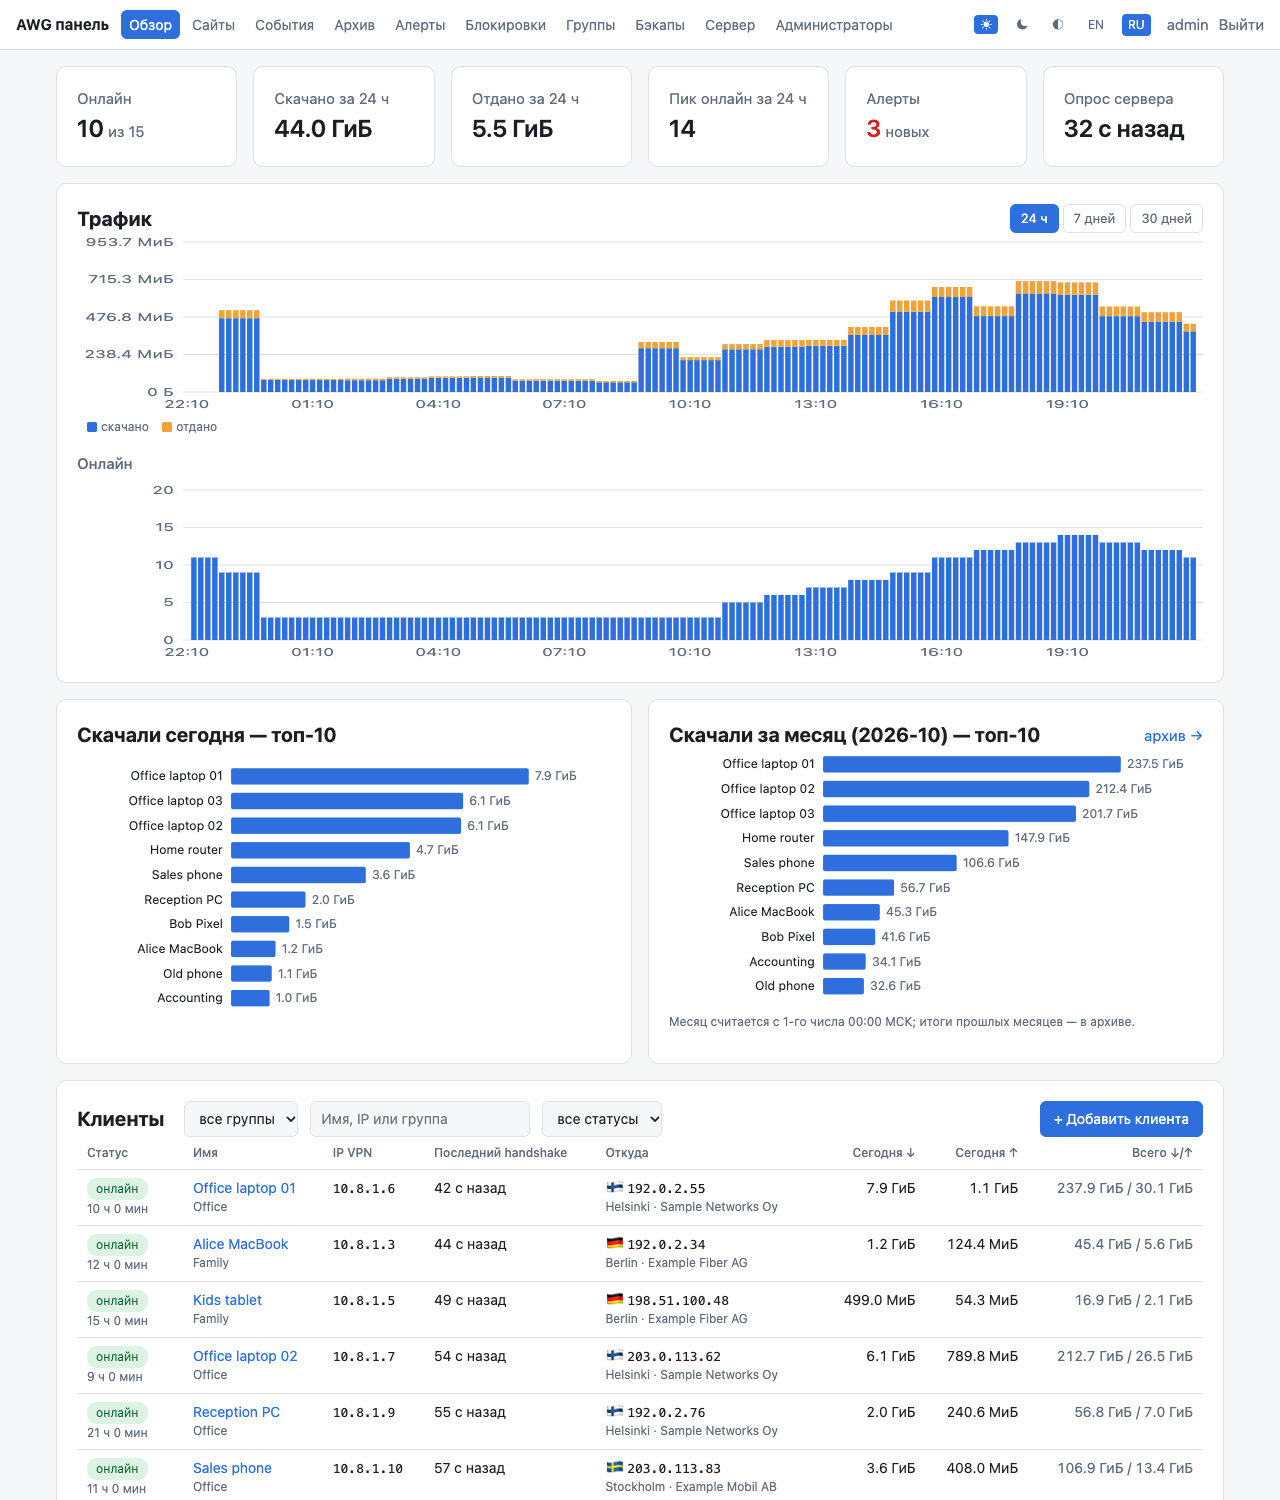
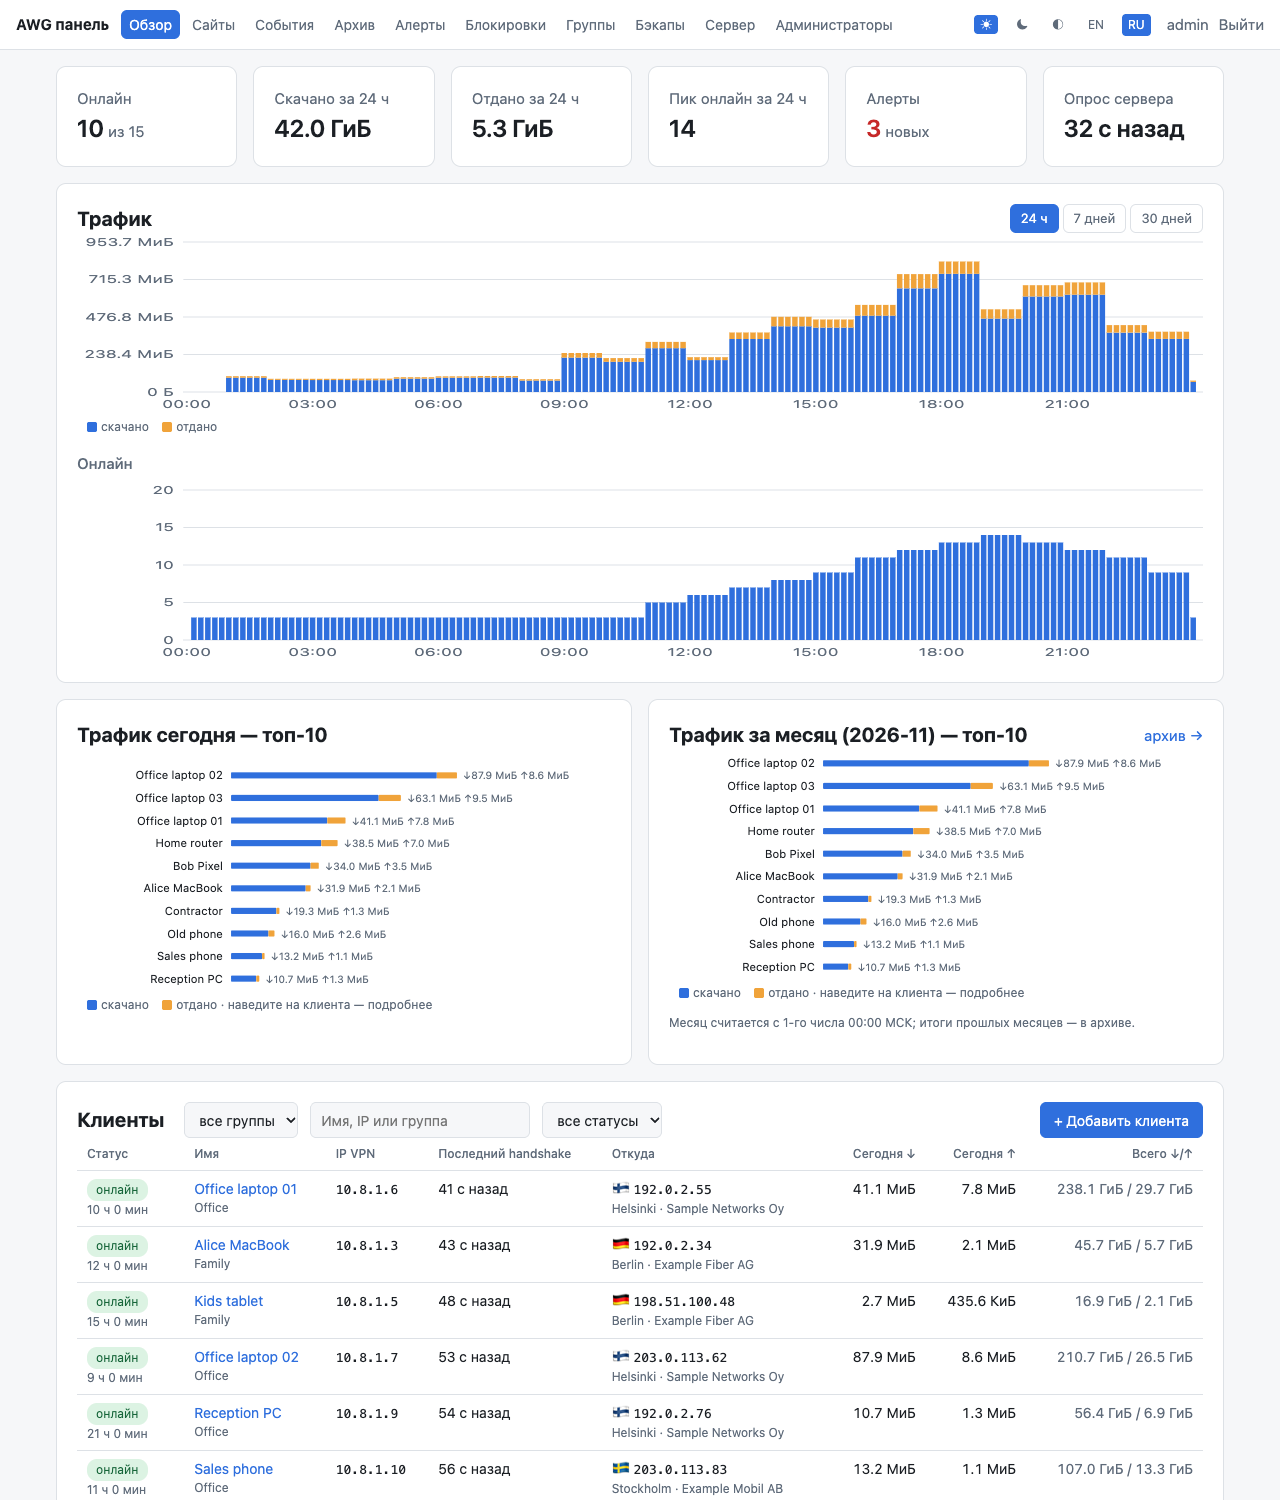
Release 1.9.1: top 10 by traffic with download/upload bars and hover card
- charts.traffic_bars: thin stacked bars (downloaded blue, uploaded orange),
  small labels, per-row data for a hover card
- overview: top 10 today / this month by total traffic with hourly / daily
  series per client; archive top 10 uses the same bars
- app.js: hover card with large download/upload bars and the client's chart,
  built with DOM APIs (CSP-safe, names as text)
- tests for the chart data and escaping

diff --git a/panel/app/static/app.js b/panel/app/static/app.js
@@ -39,3 +39,74 @@
 
 // Списки-фильтры (группа и т. п.) применяются сразу при выборе — без встроенных обработчиков из-за CSP.
 document.querySelectorAll("select[data-autosubmit]").forEach((s) => s.addEventListener("change", () => s.form.submit()));
+
+// Топ по трафику: при наведении на клиента — карточка крупно (скачано/отдано и его график за период).
+(function () {
+  const rows = document.querySelectorAll(".tbars [data-tip]");
+  if (!rows.length) return;
+  const NS = "http://www.w3.org/2000/svg";
+  const tip = document.createElement("div");
+  tip.className = "tip";
+  tip.hidden = true;
+  document.body.appendChild(tip);
+  const el = (tag, cls, text) => { const e = document.createElement(tag); if (cls) e.className = cls; if (text !== undefined) e.textContent = text; return e; };
+  const svgEl = (tag, attrs) => { const e = document.createElementNS(NS, tag); for (const k in attrs) e.setAttribute(k, attrs[k]); return e; };
+
+  function chart(series) {
+    const W = 300, H = 110, B = 16, n = series.length, bw = W / n;
+    const top = Math.max(1, ...series.map((s) => s[1] + s[2]));
+    const svg = svgEl("svg", { viewBox: `0 0 ${W} ${H}`, class: "tip-chart" });
+    series.forEach((s, i) => {
+      const hd = (H - B) * s[1] / top, hu = (H - B) * s[2] / top, x = i * bw + 0.5, w = Math.max(bw - 1, 0.5);
+      svg.appendChild(svgEl("rect", { class: "s1", x, y: H - B - hd, width: w, height: hd }));
+      svg.appendChild(svgEl("rect", { class: "s2", x, y: H - B - hd - hu, width: w, height: hu }));
+      if (i === 0 || i === n - 1 || i % Math.ceil(n / 6) === 0) {
+        const t = svgEl("text", { class: "axis", x: x + w / 2, y: H - 3, "text-anchor": "middle" });
+        t.textContent = s[0];
+        svg.appendChild(t);
+      }
+    });
+    return svg;
+  }
+
+  function show(a, ev) {
+    const d = JSON.parse(a.getAttribute("data-tip"));
+    const l = JSON.parse(a.closest("svg").getAttribute("data-labels") || "{}");
+    tip.replaceChildren();
+    tip.appendChild(el("div", "tip-name", d.name));
+    const max = Math.max(1, d.d, d.u);
+    for (const [cls, label, val, raw] of [["s1", l.down, d.down, d.d], ["s2", l.up, d.up, d.u]]) {
+      const row = el("div", "tip-row");
+      row.appendChild(el("span", "tip-label", label));
+      const bar = el("span", "tip-bar");
+      const fill = el("span", "tip-fill " + cls);
+      fill.style.width = Math.max(1, 100 * raw / max) + "%";
+      bar.appendChild(fill);
+      row.appendChild(bar);
+      row.appendChild(el("b", "", val));
+      tip.appendChild(row);
+    }
+    tip.appendChild(el("div", "tip-total", `${l.total}: ${d.total}`));
+    if (d.series && d.series.length > 1) {
+      tip.appendChild(el("div", "tip-period", l.period));
+      tip.appendChild(chart(d.series));
+    }
+    tip.hidden = false;
+    move(ev);
+  }
+
+  function move(ev) {
+    const pad = 16, r = tip.getBoundingClientRect();
+    let x = ev.clientX + pad, y = ev.clientY + pad;
+    if (x + r.width > window.innerWidth - 8) x = ev.clientX - r.width - pad;
+    if (y + r.height > window.innerHeight - 8) y = ev.clientY - r.height - pad;
+    tip.style.left = Math.max(8, x) + "px";
+    tip.style.top = Math.max(8, y) + "px";
+  }
+
+  rows.forEach((a) => {
+    a.addEventListener("mouseenter", (ev) => show(a, ev));
+    a.addEventListener("mousemove", move);
+    a.addEventListener("mouseleave", () => { tip.hidden = true; });
+  });
+})();

diff --git a/panel/app/static/app.css b/panel/app/static/app.css
@@ -177,3 +177,24 @@ footer { display: flex; flex-wrap: wrap; justify-content: center; align-items: c
 footer a { color: var(--muted); }
 footer a:hover { color: var(--text); }
 footer .gh { display: inline-flex; align-items: center; gap: 5px; }
+.tbars .hit { fill: transparent; }
+.tbars a:hover .hit { fill: var(--bg); }
+.tbars .lbl { fill: var(--text); font-size: 11px; }
+.tbars .val { font-size: 10px; }
+.tbars .s2 { fill: var(--accent2); }
+.tip { position: fixed; z-index: 50; width: 340px; background: var(--surface); color: var(--text); border: 1px solid var(--border);
+       border-radius: 10px; box-shadow: 0 8px 28px rgba(0, 0, 0, .28); padding: 14px 16px; pointer-events: none; }
+.tip-name { font-size: 17px; font-weight: 600; margin-bottom: 10px; }
+.tip-row { display: grid; grid-template-columns: 70px 1fr auto; gap: 10px; align-items: center; margin: 6px 0; font-size: 14px; }
+.tip-label { color: var(--muted); font-size: 13px; }
+.tip-bar { height: 12px; background: var(--bg); border-radius: 6px; overflow: hidden; }
+.tip-fill { display: block; height: 100%; border-radius: 6px; }
+.tip-fill.s1 { background: var(--accent); }
+.tip-fill.s2 { background: var(--accent2); }
+.tip-total { font-size: 13px; color: var(--muted); margin-top: 8px; }
+.tip-period { font-size: 12px; color: var(--muted); margin: 10px 0 4px; }
+.tip-chart { width: 100%; height: 110px; display: block; }
+.tip-chart .s1 { fill: var(--accent); }
+.tip-chart .s2 { fill: var(--accent2); }
+.tip-chart .axis { fill: var(--muted); font-size: 10px; }
+.tbars a:hover .s1 { fill: var(--accent); }

diff --git a/panel/app/templates/index.html b/panel/app/templates/index.html
@@ -21,8 +21,8 @@
 </section>
 
 <section class="grid2">
-  <div class="card"><h1>{{ _("Top 10 downloads today") }}</h1>{{ top_today|safe }}</div>
-  <div class="card"><div class="head"><h1>{{ _("Top 10 downloads this month ({month})", month=month) }}</h1><a href="/archive">{{ _("archive") }} →</a></div>{{ top_month|safe }}
+  <div class="card"><h1>{{ _("Traffic today — top 10") }}</h1>{{ top_today|safe }}</div>
+  <div class="card"><div class="head"><h1>{{ _("Traffic this month ({month}) — top 10", month=month) }}</h1><a href="/archive">{{ _("archive") }} →</a></div>{{ top_month|safe }}
     <p class="muted small">{{ _("A month starts on the 1st at 00:00 Moscow time; totals of past months are in the archive.") }}</p></div>
 </section>
 

diff --git a/panel/app/templates/archive.html b/panel/app/templates/archive.html
@@ -16,7 +16,7 @@
     {% for name, v in group_totals %}<tr><td>{{ name }}</td><td class="num">{{ v[2] }}</td><td class="num">{{ v[0]|size }}</td><td class="num">{{ v[1]|size }}</td></tr>{% endfor %}
   </table>
   {% endif %}
-  <h2>{{ _("Top 10 downloads") }}</h2>
+  <h2>{{ _("Top 10 by traffic") }}</h2>
   {{ chart|safe }}
   <div class="scroll">
   <table class="tbl">

diff --git a/panel/app/main.py b/panel/app/main.py
@@ -415,12 +415,31 @@ def index(request: Request, days: int = 1, group: str = ""):
     month = monthly.current_month(now, fmt.TZ)
     m_start, _ = monthly.month_bounds(month, fmt.TZ)
 
-    def top10(start: int) -> str:
-        rows = conn.execute("SELECT p.id, p.name, SUM(t.tx) d FROM traffic_hour t JOIN peers p ON p.id = t.peer_id "
-                            f"WHERE t.ts >= ?{pw} GROUP BY p.id ORDER BY d DESC LIMIT 10", (start, *pa)).fetchall()
-        return charts.hbars([(r["name"], r["d"], f"/peer/{r['id']}") for r in rows if r["d"]])
+    def top10(start: int, daily: bool) -> str:
+        """Топ-10 по трафику (скачано + отдано) и график каждого: по часам за сегодня или по дням за месяц."""
+        rows = conn.execute("SELECT p.id, p.name, SUM(t.tx) d, SUM(t.rx) u FROM traffic_hour t JOIN peers p ON p.id = t.peer_id "
+                            f"WHERE t.ts >= ?{pw} GROUP BY p.id ORDER BY SUM(t.tx + t.rx) DESC LIMIT 10", (start, *pa)).fetchall()
+        rows = [r for r in rows if r["d"] or r["u"]]
+        per: dict[int, dict[int, list[int]]] = {r["id"]: {} for r in rows}
+        sw, sa = db.peer_filter(set(per), "peer_id")
+        for x in conn.execute(f"SELECT peer_id, ts, tx, rx FROM traffic_hour WHERE ts >= ?{sw}", (start, *sa)):
+            key = fmt.day_start(x["ts"]) if daily else x["ts"] - x["ts"] % 3600
+            a = per[x["peer_id"]].setdefault(key, [0, 0])
+            a[0] += x["tx"]
+            a[1] += x["rx"]
+        step = 86400 if daily else 3600
+        keys = []
+        k = start
+        while k <= now:
+            keys.append(fmt.day_start(k) if daily else k)
+            k += step
+        label = "%d" if daily else "%H"
+        return charts.traffic_bars(
+            [{"name": r["name"], "down": r["d"] or 0, "up": r["u"] or 0, "href": f"/peer/{r['id']}",
+              "series": [(fmt.dt(k, label), *per[r["id"]].get(k, (0, 0))) for k in keys]} for r in rows],
+            t("by day, this month") if daily else t("by hour, today"))
     return render(request, "index.html", clients=clients, online=online, rx24=totals[0], tx24=totals[1],
-                  top_today=top10(fmt.day_start(now)), top_month=top10(m_start), month=month,
+                  top_today=top10(fmt.day_start(now), False), top_month=top10(m_start, True), month=month,
                   events=events, poll=poller.status if poller else None, now=now, days=days, peak=peak, alerts=alerts,
                   top_clients=top_clients, group=group, group_list=group_choices(request),
                   traffic_chart=charts.bars(charts.traffic_series(conn, since, now, bucket, vp), fmt.TZ, label),
@@ -1295,7 +1314,8 @@ def archive_page(request: Request, month: str = "", group: str = ""):
     month = month if month in months else (months[0] if months else "")
     pw, pa = db.peer_filter(visible_peers(request, group))
     rows = conn.execute(f"SELECT * FROM monthly_archive WHERE month = ?{pw} ORDER BY tx DESC", (month, *pa)).fetchall()
-    chart = charts.hbars([(r["name"] or r["ip"], r["tx"], f"/peer/{r['peer_id']}") for r in rows[:10] if r["tx"]])
+    chart = charts.traffic_bars([{"name": r["name"] or r["ip"], "down": r["tx"], "up": r["rx"], "href": f"/peer/{r['peer_id']}"}
+                                 for r in sorted(rows, key=lambda r: -(r["tx"] + r["rx"]))[:10] if r["tx"] or r["rx"]])
     gname = {g["id"]: g["name"] for g in group_choices(request)}
     member = {r[0]: r[1] for r in conn.execute("SELECT id, group_id FROM peers")}
     by_group: dict[str, list[int]] = {}

diff --git a/panel/app/charts.py b/panel/app/charts.py
@@ -2,6 +2,7 @@
 from __future__ import annotations
 
 import datetime
+import json
 from html import escape
 from zoneinfo import ZoneInfo
 
@@ -126,6 +127,37 @@ def activity_cells(conn, peers, since: int, tz: ZoneInfo) -> dict[tuple[int, int
 
 
 RANGES = {1: (600, "%H:%M"), 7: (6 * 3600, "%d.%m %H"), 30: (86400, "%d.%m")}
+
+
+def traffic_bars(rows: list[dict], period: str = "") -> str:
+    """Топ по трафику: тонкая полоска скачано (синяя) + отдано (оранжевая), мелкая подпись.
+    rows = {name, down, up, href, series: [(подпись, скачано, отдано), …] | None}. Данные для всплывающей карточки
+    (app.js) — в data-tip каждой строки: клиент крупно и его график за период."""
+    if not rows:
+        return f'<p class="muted small">{t("No data.")}</p>'
+    top = max(r["down"] + r["up"] for r in rows) or 1
+    rh, w, left, right = 22, 520, 150, 150
+    lbl = {"down": t("downloaded"), "up": t("uploaded"), "total": t("total"), "period": period}
+    out = [f'<svg class="hbars tbars" viewBox="0 0 {w} {len(rows) * rh + 4}" role="img" data-labels="{escape(json.dumps(lbl, ensure_ascii=False))}">']
+    for i, r in enumerate(rows):
+        y = i * rh + 2
+        span = w - left - right
+        dw = max(span * r["down"] / top, 0.5 if r["down"] else 0)
+        uw = max(span * r["up"] / top, 0.5 if r["up"] else 0)
+        name = r["name"] if len(r["name"]) <= 22 else r["name"][:21] + "…"
+        tip = {"name": r["name"], "down": size(int(r["down"])), "up": size(int(r["up"])), "total": size(int(r["down"] + r["up"])),
+               "d": int(r["down"]), "u": int(r["up"]),
+               "series": [[lab, int(a), int(b)] for lab, a, b in (r.get("series") or [])]}
+        out.append(f'<a href="{escape(r["href"])}" class="trow" data-tip="{escape(json.dumps(tip, ensure_ascii=False))}">'
+                   f'<rect class="hit" x="0" y="{y}" width="{w}" height="{rh}"/>'
+                   f'<text class="axis lbl" x="{left - 8}" y="{y + 15}" text-anchor="end">{escape(name)}</text>'
+                   f'<rect class="s1" x="{left}" y="{y + 8}" width="{dw:.1f}" height="6" rx="1"/>'
+                   f'<rect class="s2" x="{left + dw:.1f}" y="{y + 8}" width="{uw:.1f}" height="6" rx="1"/>'
+                   f'<text class="axis val" x="{left + dw + uw + 6:.1f}" y="{y + 15}">↓{size(int(r["down"]))} ↑{size(int(r["up"]))}</text></a>')
+    out.append("</svg>")
+    out.append(f'<div class="legend"><span class="sw s1"></span>{t("downloaded")} <span class="sw s2"></span>{t("uploaded")}'
+               f' <span class="muted">· {t("hover over a client for details")}</span></div>')
+    return "".join(out)
 
 
 def hbars(rows: list[tuple[str, float, str]], unit_bytes: bool = True) -> str:

diff --git a/panel/tests/test_charts.py b/panel/tests/test_charts.py
@@ -1,0 +1,22 @@
+"""Топ по трафику: скачано + отдано, данные для всплывающей карточки, экранирование имён."""
+import html
+import json
+import re
+
+from app import charts
+
+
+def test_traffic_bars_stack_and_tip_data():
+    svg = charts.traffic_bars([
+        {"name": 'Анна "<b>"', "down": 10 << 30, "up": 1 << 30, "href": "/peer/1",
+         "series": [("09", 5 << 30, 0), ("10", 5 << 30, 1 << 30)]},
+        {"name": "Борис", "down": 0, "up": 2 << 20, "href": "/peer/2", "series": None},
+    ], "by hour, today")
+    assert svg.count('class="s1"') == 2 and svg.count('class="s2"') == 2
+    assert "<b>" not in svg.split("data-tip")[0] + svg.split("</svg>")[1]          # имя не попадает в разметку
+    tips = [json.loads(html.unescape(m)) for m in re.findall(r'data-tip="([^"]*)"', svg)]
+    assert tips[0]["name"] == 'Анна "<b>"' and tips[0]["d"] == 10 << 30 and tips[0]["u"] == 1 << 30
+    assert tips[0]["series"] == [["09", 5 << 30, 0], ["10", 5 << 30, 1 << 30]] and tips[1]["series"] == []
+    labels = json.loads(html.unescape(re.search(r'data-labels="([^"]*)"', svg).group(1)))
+    assert labels["period"] == "by hour, today"
+    assert charts.traffic_bars([]).startswith('<p class="muted small">')

diff --git a/panel/tests/test_groups.py b/panel/tests/test_groups.py
@@ -45,6 +45,7 @@ def test_group_admin_sees_only_own_clients(client, world):
     conn, ga, gb = world
     page = client.get("/").text
     assert "Анна" in page and "Борис" in page and "Вера" not in page and "Глеб" not in page
+    assert "Traffic today — top 10" in page and 'class="trow"' in page                  # топ — только свои
     assert "site1.example" in client.get("/hosts").text and "site3.example" not in client.get("/hosts").text
     assert "Вера" not in client.get("/hosts/site3.example").text
     ev = client.get("/events").text

diff --git a/panel/app/__init__.py b/panel/app/__init__.py
@@ -1,3 +1,3 @@
 """Панель мониторинга и управления сервером AmneziaWG."""
 
-__version__ = "1.9.0"
+__version__ = "1.9.1"

diff --git a/CHANGELOG.md b/CHANGELOG.md
@@ -1,5 +1,12 @@
 # Changelog
 
+## 1.9.1 — 2026-10-31
+
+- Overview: "Traffic today / this month — top 10" instead of downloads only — ranked by total traffic, thin stacked
+  bars (blue — downloaded, orange — uploaded) with small labels. Hovering a client shows a card: downloaded and
+  uploaded in large type and the client's chart by hour (today) or by day (this month).
+- Monthly archive: the top 10 by traffic uses the same bars.
+
 ## 1.9.0 — 2026-10-30
 
 - Full backup for super administrators (`awg-full-….tar.gz.enc`): panel code and scripts, `.env`, the database with all
